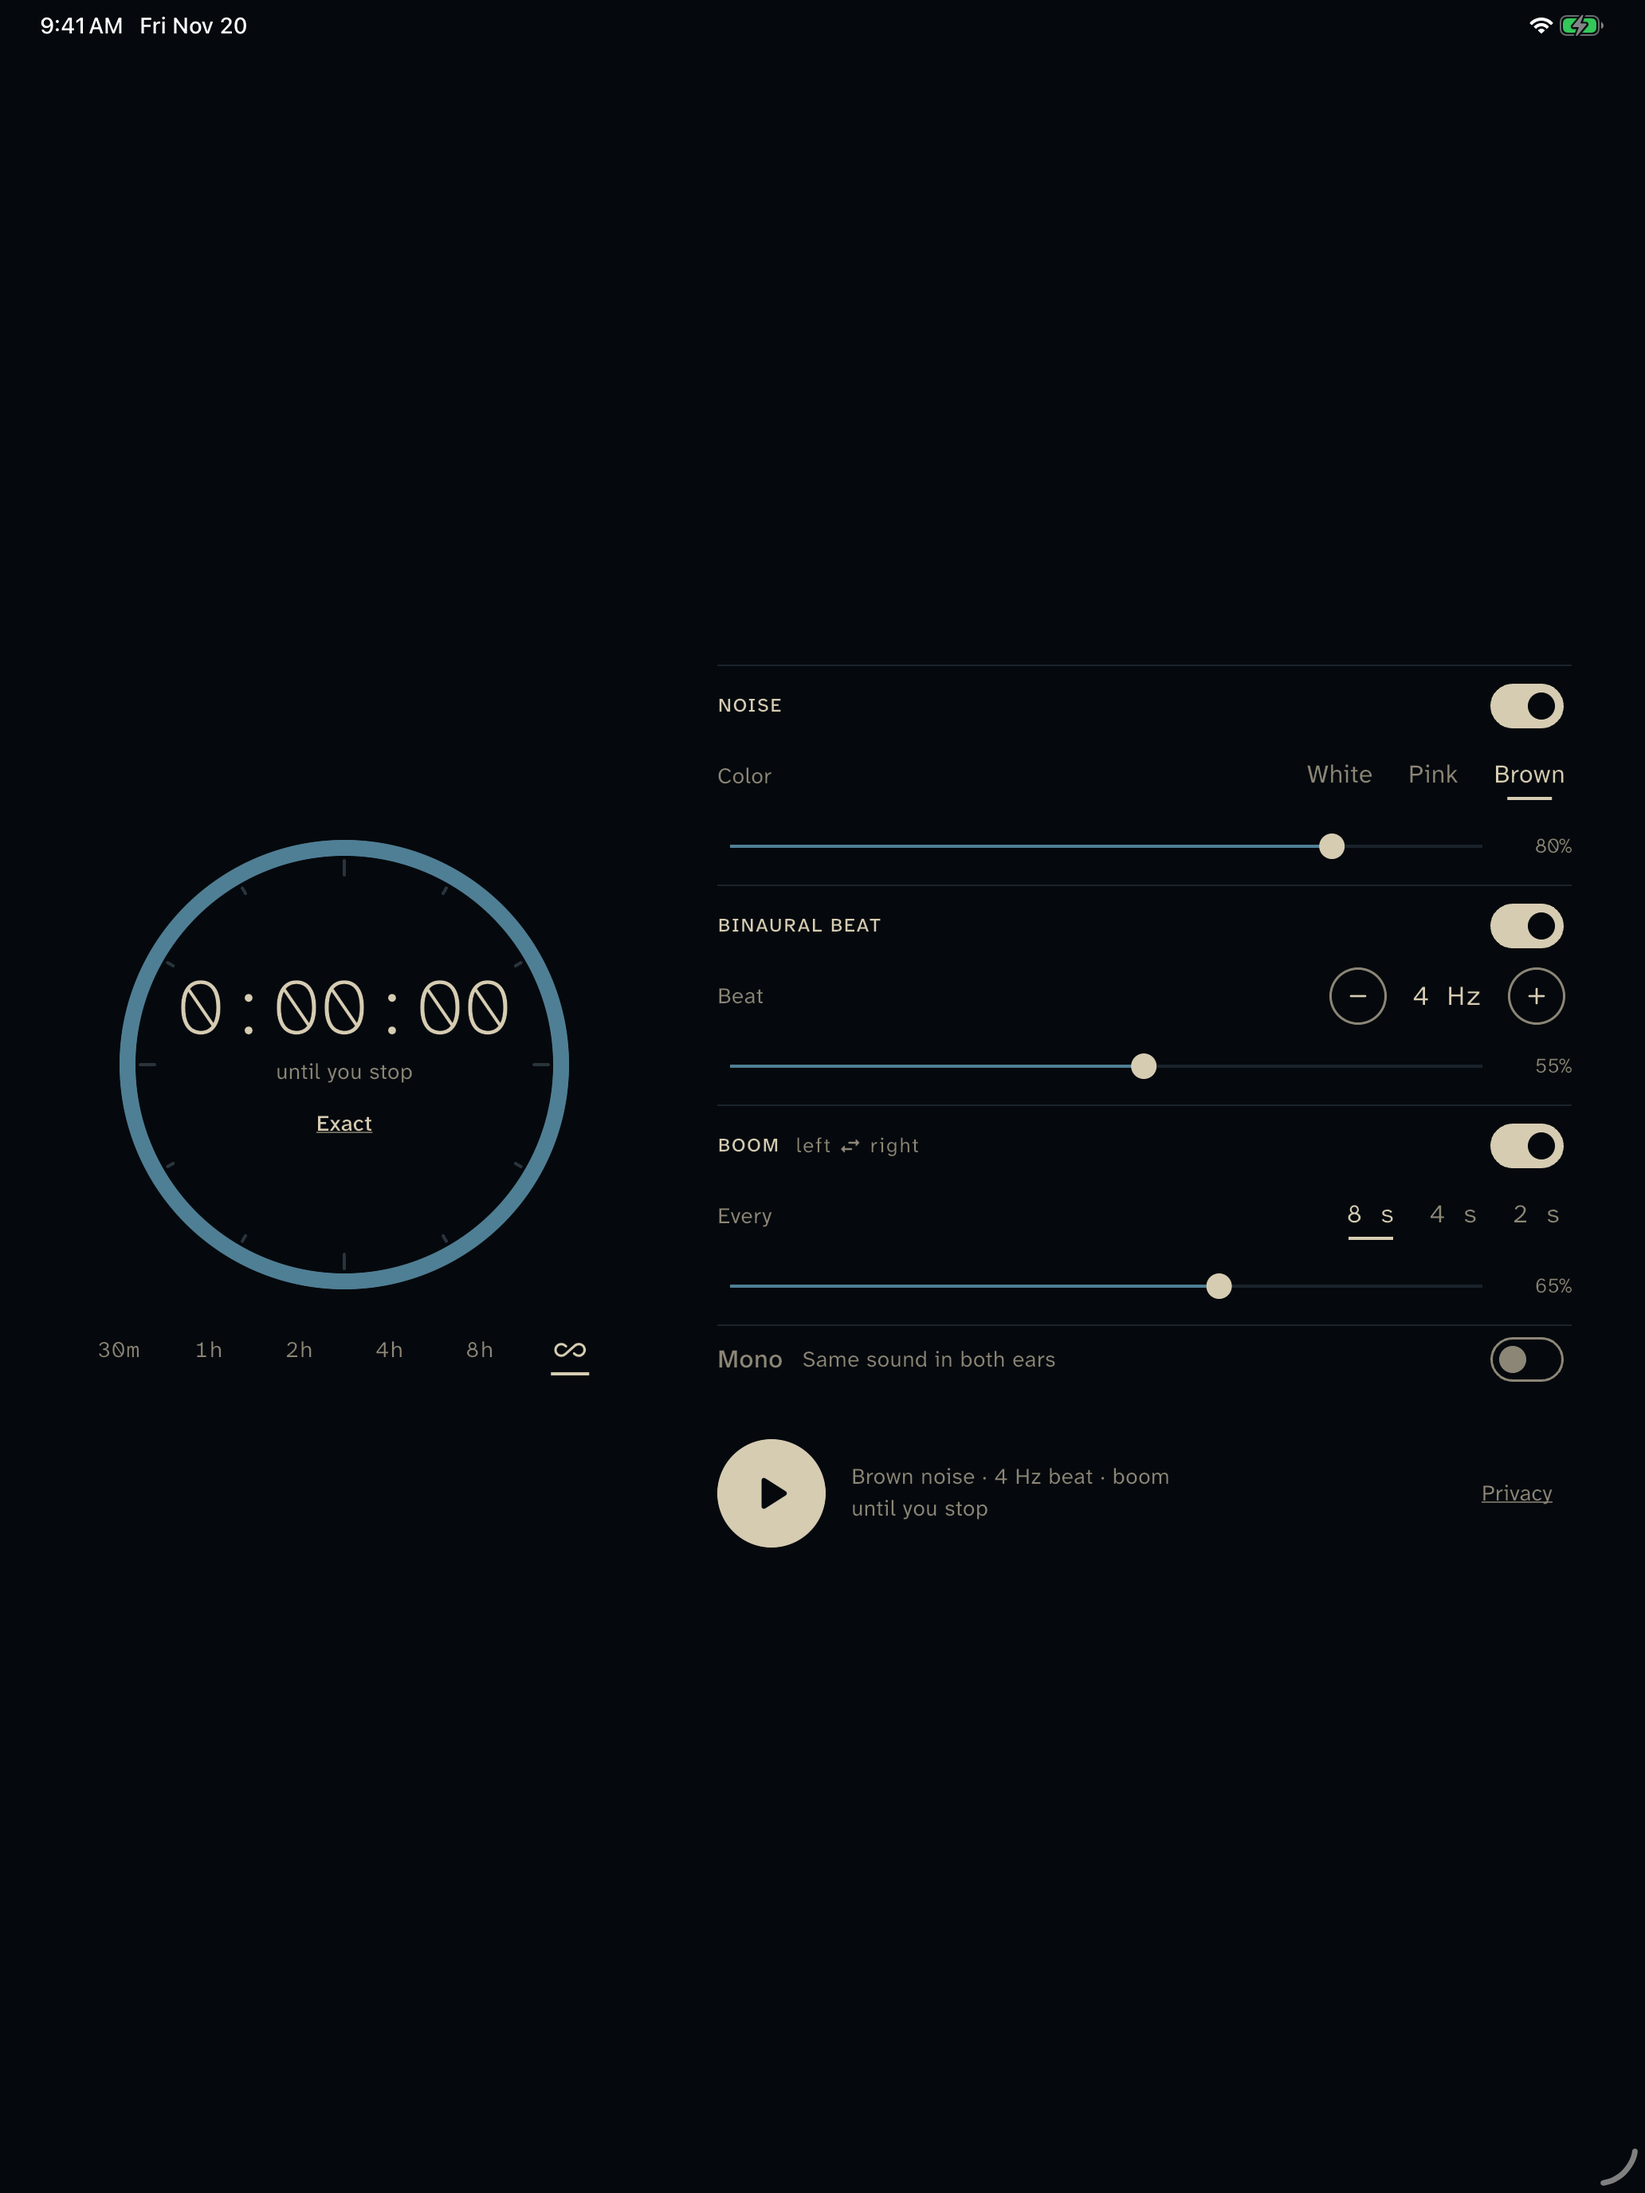
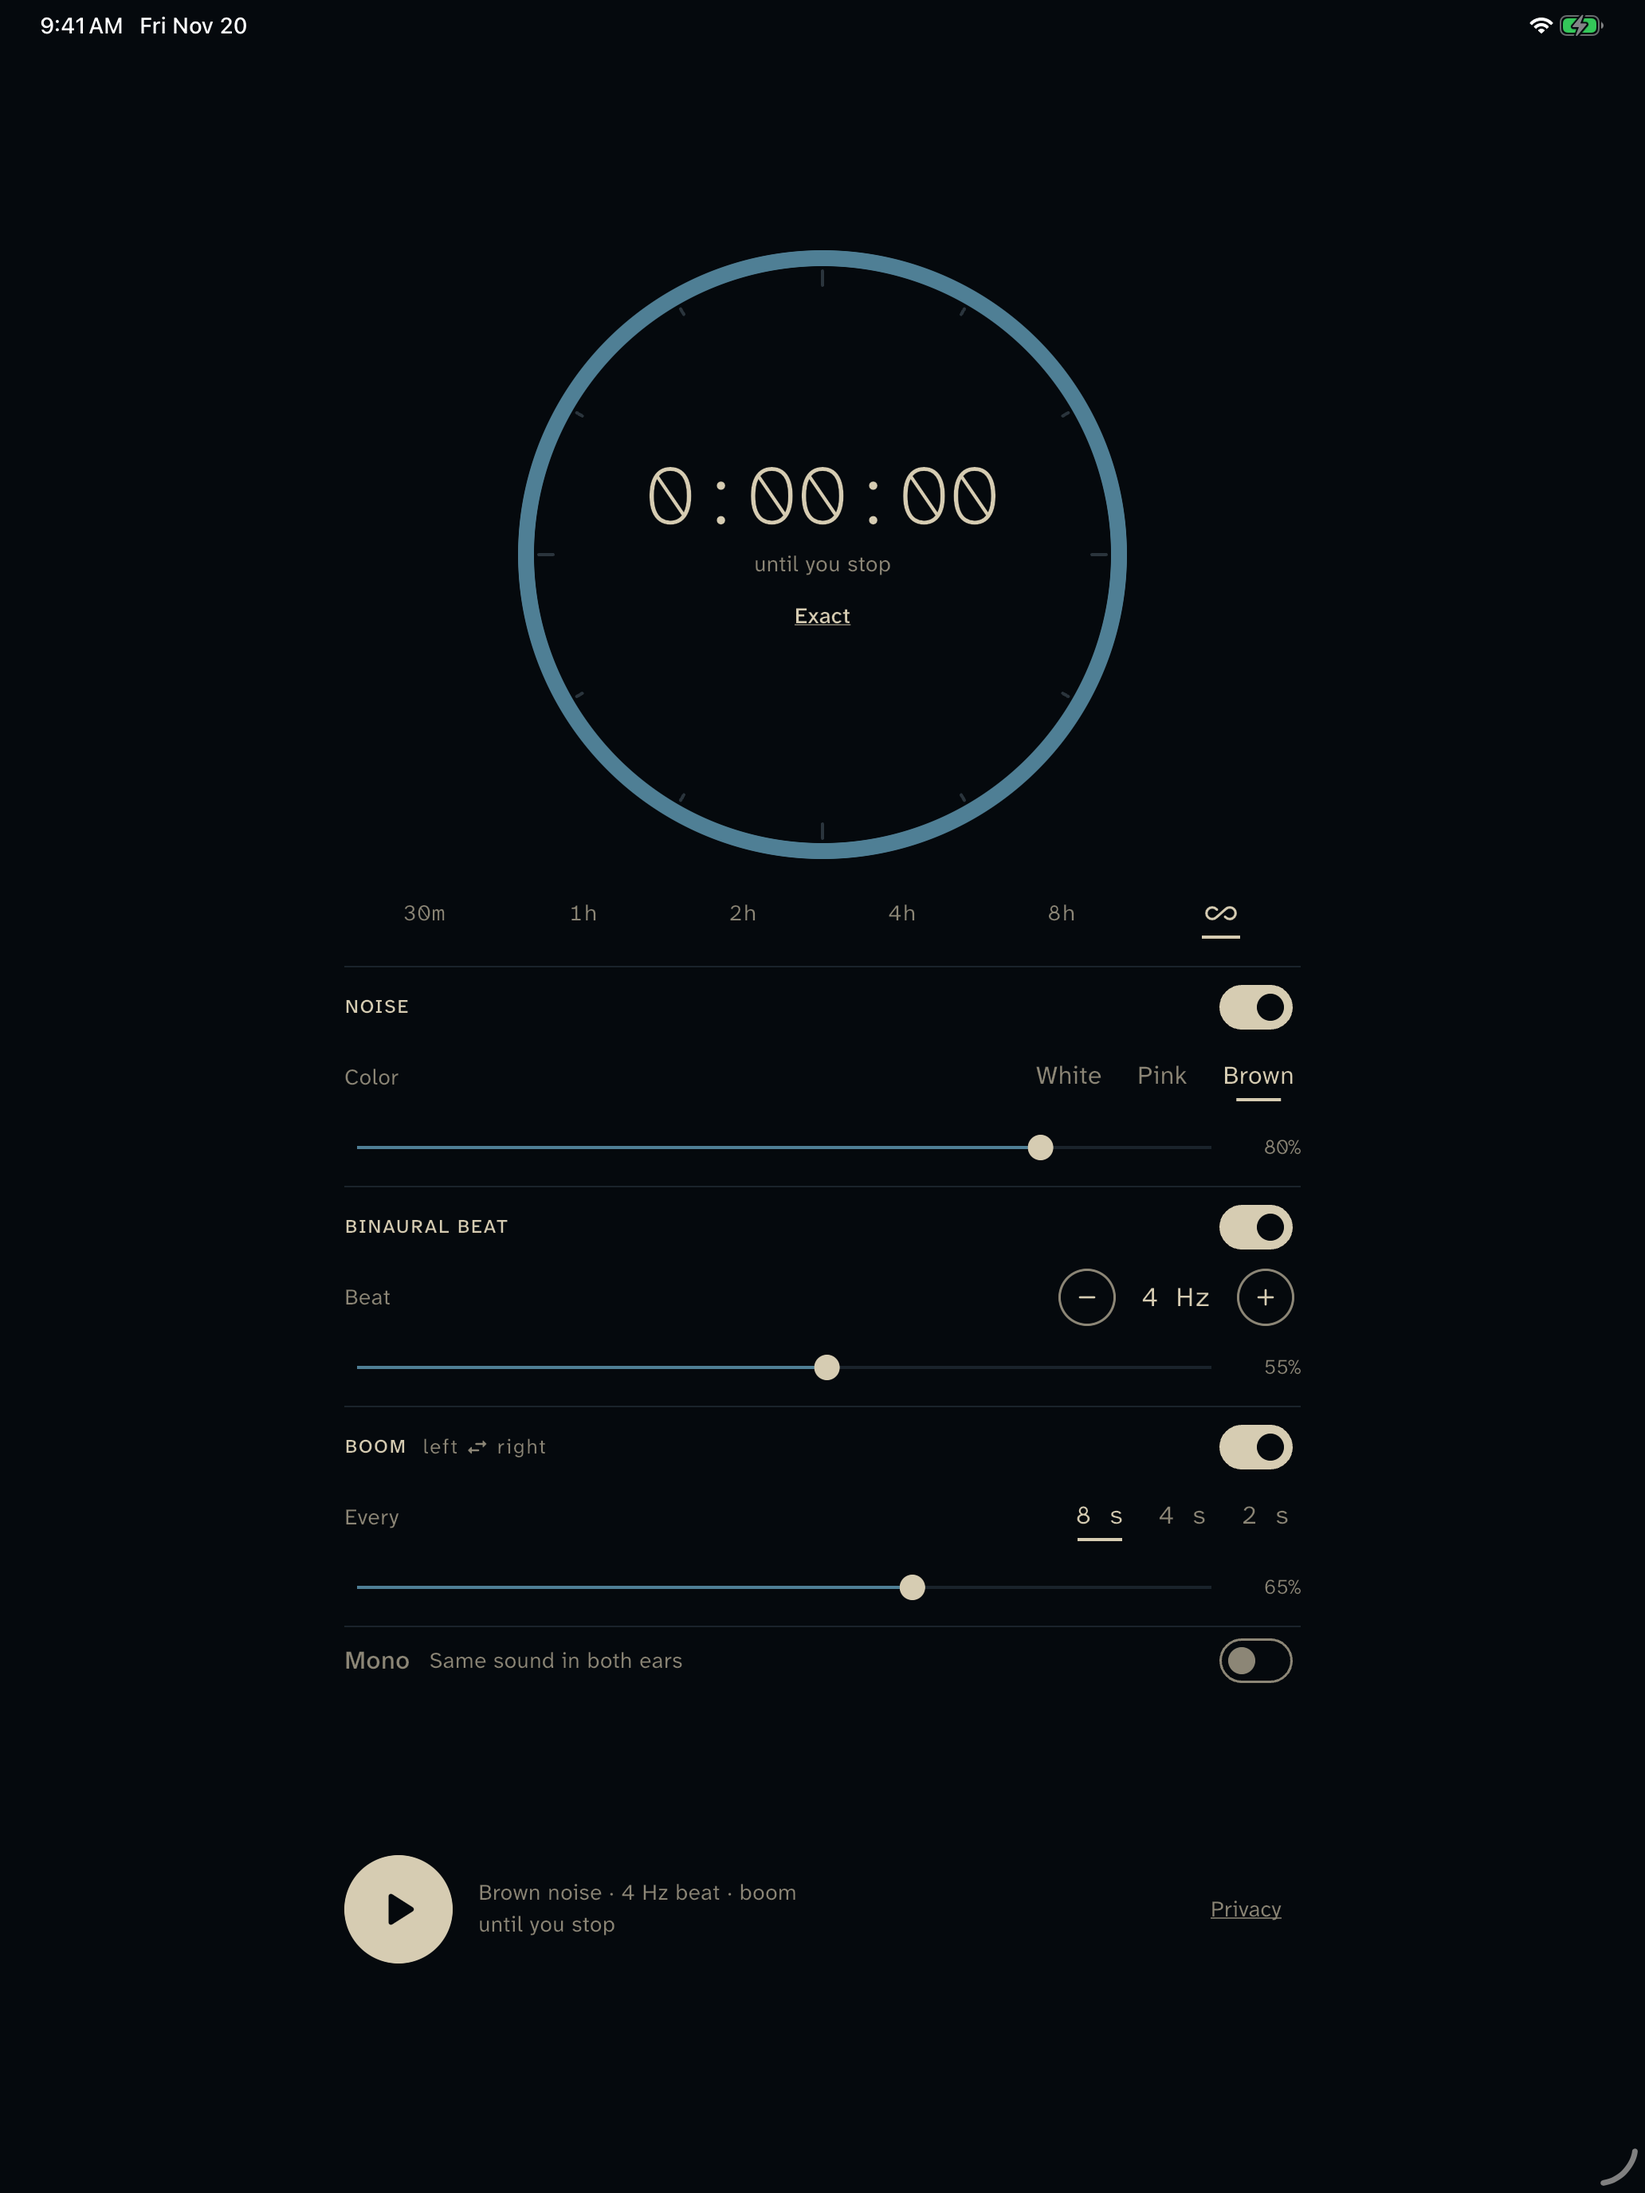
Stack the session screen on portrait tablets and grow the dial
A portrait iPad is wider than the 900 px breakpoint, so it got the
side-by-side layout sized for a laptop window: a small strip in a field of
black. The side-by-side layout is now for landscape only. Stacked, the column
stops at 600 px, the dial takes the spare height (up to 400) and the column is
centred. In landscape the dial grows with the window height.

Tests cover 13" and 11" iPads in both orientations and the Split View and
Slide Over widths. The iPad screenshots are retaken, a medium Dynamic Island
iPhone set is added, and every screenshot is flattened (no alpha).

Part of #27.

diff --git a/app-ui/lib/src/ui/session_screen.dart b/app-ui/lib/src/ui/session_screen.dart
@@ -1,8 +1,10 @@
 /// The session screen: the whole app. Spec #9 §2, §3 and §8.
 ///
 /// The dial carries the clock and the length; under it the preset stops,
-/// then one ruled row per layer and the Mono row, then Play. Narrow screens stack them; at
-/// 900 px and up the dial sits left of the layers.
+/// then one ruled row per layer and the Mono row, then Play. Narrow and portrait
+/// screens stack them; landscape screens 900 px and wider put the dial left of
+/// the layers. Large screens grow the dial rather than leave it small in a
+/// field of black.
 library;
 
 import 'dart:math' as math;
@@ -19,8 +21,16 @@ import 'privacy.dart';
 import 'session_dial.dart';
 import 'theme.dart';
 
-/// Windows or screens this wide and up put the dial beside the layers.
+/// Landscape windows or screens this wide and up put the dial beside the layers.
 const wideBreakpoint = 900.0;
+
+/// The stacked layout never runs wider than this, so a portrait tablet keeps
+/// the phone's proportions instead of stretching every row.
+const stackedMaxWidth = 600.0;
+
+/// Whether [size] gets the side-by-side layout. A portrait tablet is wider than
+/// [wideBreakpoint] but stacks, because its height is where the room is.
+bool isWideLayout(Size size) => size.width >= wideBreakpoint && size.width >= size.height;
 
 class SessionScreen extends StatelessWidget {
   const SessionScreen({super.key, required this.controller, this.onPrivacy = openPrivacyPolicy});
@@ -32,7 +42,7 @@ class SessionScreen extends StatelessWidget {
 
   @override
   Widget build(BuildContext context) {
-    final wide = MediaQuery.sizeOf(context).width >= wideBreakpoint;
+    final wide = isWideLayout(MediaQuery.sizeOf(context));
     return Scaffold(
       backgroundColor: SessionColors.ground,
       body: SafeArea(
@@ -59,32 +69,39 @@ class _NarrowLayout extends StatelessWidget {
   @override
   Widget build(BuildContext context) {
     const pad = EdgeInsets.fromLTRB(20, 12, 20, 20);
+    // Everything but the dial takes about this much height.
+    const rows = 636.0;
     return LayoutBuilder(
       builder: (context, constraints) {
-        // The dial takes what the rows leave, so a phone fits without scrolling.
-        final dial = math.max(
-          0.0,
-          math.min((constraints.maxHeight - 636).clamp(176.0, 260.0), constraints.maxWidth - pad.horizontal),
-        );
-        return SingleChildScrollView(
-          padding: pad,
-          child: ConstrainedBox(
-            constraints: BoxConstraints(minHeight: constraints.maxHeight - pad.vertical),
-            child: IntrinsicHeight(
-              child: Column(
-                crossAxisAlignment: CrossAxisAlignment.stretch,
-                children: [
-                  Center(
-                    child: SessionDial(controller: c, size: dial, onExact: () => _openExact(context, c, wide: false)),
-                  ),
-                  const SizedBox(height: 4),
-                  _StopsOrStatus(c),
-                  const SizedBox(height: 10),
-                  ..._layers(c),
-                  _MonoRow(c),
-                  const Expanded(child: SizedBox(height: 16)),
-                  _PlayRow(c, onPrivacy),
-                ],
+        final width = math.min(constraints.maxWidth, stackedMaxWidth + pad.horizontal) - pad.horizontal;
+        final height = constraints.maxHeight - pad.vertical;
+        // The dial takes what the rows leave, so a phone fits without scrolling
+        // and a tablet's spare height goes into a larger dial.
+        final dial = math.max(0.0, math.min((height - rows).clamp(176.0, 400.0), width));
+        // On a tall screen the column keeps its natural height and is centred,
+        // rather than pushing Play to the bottom edge.
+        final columnHeight = math.min(height, dial + rows + 48);
+        return Center(
+          child: SingleChildScrollView(
+            padding: pad,
+            child: ConstrainedBox(
+              constraints: BoxConstraints(minHeight: columnHeight, maxWidth: width),
+              child: IntrinsicHeight(
+                child: Column(
+                  crossAxisAlignment: CrossAxisAlignment.stretch,
+                  children: [
+                    Center(
+                      child: SessionDial(controller: c, size: dial, onExact: () => _openExact(context, c, wide: false)),
+                    ),
+                    const SizedBox(height: 4),
+                    _StopsOrStatus(c),
+                    const SizedBox(height: 10),
+                    ..._layers(c),
+                    _MonoRow(c),
+                    const Expanded(child: SizedBox(height: 16)),
+                    _PlayRow(c, onPrivacy),
+                  ],
+                ),
               ),
             ),
           ),
@@ -100,41 +117,46 @@ class _WideLayout extends StatelessWidget {
   final VoidCallback onPrivacy;
 
   @override
-  Widget build(BuildContext context) => Center(
-    child: SingleChildScrollView(
-      padding: const EdgeInsets.all(32),
-      child: ConstrainedBox(
-        constraints: const BoxConstraints(maxWidth: 940),
-        child: Row(
-          crossAxisAlignment: CrossAxisAlignment.center,
-          children: [
-            SizedBox(
-              width: 340,
-              child: Column(
-                mainAxisSize: MainAxisSize.min,
-                crossAxisAlignment: CrossAxisAlignment.stretch,
-                children: [
-                  Center(
-                    child: SessionDial(controller: c, size: 300, onExact: () => _openExact(context, c, wide: true)),
-                  ),
-                  const SizedBox(height: 8),
-                  _StopsOrStatus(c),
-                ],
+  Widget build(BuildContext context) {
+    // A taller window (a landscape tablet) gets a larger dial; a laptop-sized
+    // one keeps 300.
+    final dial = (MediaQuery.sizeOf(context).height * 0.42).clamp(300.0, 420.0);
+    return Center(
+      child: SingleChildScrollView(
+        padding: const EdgeInsets.all(32),
+        child: ConstrainedBox(
+          constraints: BoxConstraints(maxWidth: 940 + (dial - 300) * 1.5),
+          child: Row(
+            crossAxisAlignment: CrossAxisAlignment.center,
+            children: [
+              SizedBox(
+                width: dial + 40,
+                child: Column(
+                  mainAxisSize: MainAxisSize.min,
+                  crossAxisAlignment: CrossAxisAlignment.stretch,
+                  children: [
+                    Center(
+                      child: SessionDial(controller: c, size: dial, onExact: () => _openExact(context, c, wide: true)),
+                    ),
+                    const SizedBox(height: 8),
+                    _StopsOrStatus(c),
+                  ],
+                ),
               ),
-            ),
-            const SizedBox(width: 64),
-            Expanded(
-              child: Column(
-                mainAxisSize: MainAxisSize.min,
-                crossAxisAlignment: CrossAxisAlignment.stretch,
-                children: [..._layers(c), _MonoRow(c), const SizedBox(height: 28), _PlayRow(c, onPrivacy)],
+              const SizedBox(width: 64),
+              Expanded(
+                child: Column(
+                  mainAxisSize: MainAxisSize.min,
+                  crossAxisAlignment: CrossAxisAlignment.stretch,
+                  children: [..._layers(c), _MonoRow(c), const SizedBox(height: 28), _PlayRow(c, onPrivacy)],
+                ),
               ),
-            ),
-          ],
+            ],
+          ),
         ),
       ),
-    ),
-  );
+    );
+  }
 }
 
 List<Widget> _layers(SessionController c) {

diff --git a/app-ui/test/session_screen_test.dart b/app-ui/test/session_screen_test.dart
@@ -69,6 +69,41 @@ void main() {
       expect(centerOf(tester, '8:00:00').dx, closeTo(449.5, 1));
     });
 
+    testWidgets('a portrait tablet stacks, with a larger dial, centred and on screen', (tester) async {
+      for (final size in const [Size(1032, 1376), Size(834, 1194), Size(820, 1180)]) {
+        await pumpScreen(tester, size);
+        expect(tester.takeException(), isNull, reason: '$size');
+        final dial = centerOf(tester, '8:00:00');
+        expect(dial.dy, lessThan(centerOf(tester, 'NOISE').dy), reason: '$size stacks');
+        expect(dial.dx, closeTo(size.width / 2, 1), reason: '$size');
+        expect(tester.getSize(find.byType(SessionDial)).width, greaterThan(300), reason: '$size dial grows');
+        final noise = tester.getRect(find.text('NOISE'));
+        expect(noise.left, greaterThan((size.width - stackedMaxWidth) / 2 - 1), reason: '$size column width');
+        final top = tester.getTopLeft(find.byType(SessionDial)).dy;
+        final bottom = size.height - tester.getRect(playButtonFinder()).bottom;
+        expect(bottom, greaterThan(0), reason: '$size Play on screen');
+        expect((top - bottom).abs(), lessThan(48), reason: '$size column is centred, top $top bottom $bottom');
+      }
+    });
+
+    testWidgets('a landscape tablet puts the dial beside the layers, larger', (tester) async {
+      for (final size in const [Size(1376, 1032), Size(1194, 834)]) {
+        await pumpScreen(tester, size);
+        expect(tester.takeException(), isNull, reason: '$size');
+        expect(centerOf(tester, '8:00:00').dx, lessThan(centerOf(tester, 'NOISE').dx), reason: '$size');
+        expect(tester.getSize(find.byType(SessionDial)).width, greaterThan(300), reason: '$size dial grows');
+        expect(tester.getRect(playButtonFinder()).bottom, lessThanOrEqualTo(size.height), reason: '$size');
+      }
+    });
+
+    testWidgets('iPad multitasking widths fit and keep Play reachable', (tester) async {
+      for (final size in const [Size(320, 1376), Size(375, 1376), Size(507, 1376), Size(678, 1032), Size(320, 1032)]) {
+        await pumpScreen(tester, size);
+        expect(tester.takeException(), isNull, reason: '$size');
+        expect(tester.getRect(playButtonFinder()).bottom, lessThanOrEqualTo(size.height), reason: '$size');
+      }
+    });
+
     testWidgets('the minimum desktop window and a landscape phone do not overflow', (tester) async {
       await pumpScreen(tester, const Size(360, 640));
       expect(tester.takeException(), isNull);

diff --git a/docs/store/app-store/README.md b/docs/store/app-store/README.md
@@ -56,7 +56,8 @@ white,pink,brown,colored,ambient,generator,timer,offline,tone,hum,drone,stereo,m
 
 | Set | Simulator | Size | Files |
 | --- | --- | --- | --- |
-| iPhone 6.9" | iPhone 18 Pro Max | 1320×2868 | `iphone-1-stopped.png` … `iphone-4-exact.png` |
+| iPhone with Dynamic Island (large) | iPhone 18 Pro Max | 1320×2868 | `iphone-1-stopped.png` … `iphone-4-exact.png` |
+| iPhone with Dynamic Island (medium) | iPhone 18 Pro | 1206×2622 | `iphone-medium-1-stopped.png` … `iphone-medium-4-exact.png` |
 | iPad 13" | iPad Pro 13-inch (M5) | 2064×2752 | `ipad-1-stopped.png` … `ipad-4-exact.png` |
 
 Order: (1) stopped, layers mixed, 8h; (2) playing; (3) Until I stop; (4) Exact
@@ -73,6 +74,9 @@ SHOTS_DEVICE=$U SHOTS_DIR=$PWD/../docs/store/app-store SHOTS_PREFIX=iphone \
   --driver=test_driver/store_screenshots_test.dart
 ```
 
-For the iPad set use `SHOTS_PREFIX=ipad SHOTS_WIDE=1` (the wide layout's exact
-entry is typed fields, not the keypad). The Simulator runs a debug build; the
+Use `SHOTS_PREFIX=iphone-medium` on the iPhone 18 Pro and `SHOTS_PREFIX=ipad`
+on the iPad Pro 13-inch (portrait stacks like a phone, so it uses the keypad).
+`SHOTS_WIDE=1` is only for a landscape set, where exact entry is typed fields.
+Apple rejects screenshots with an alpha channel, so flatten each one:
+`magick <file> -alpha off <file>`. The Simulator runs a debug build; the
 screen is the same as release.
